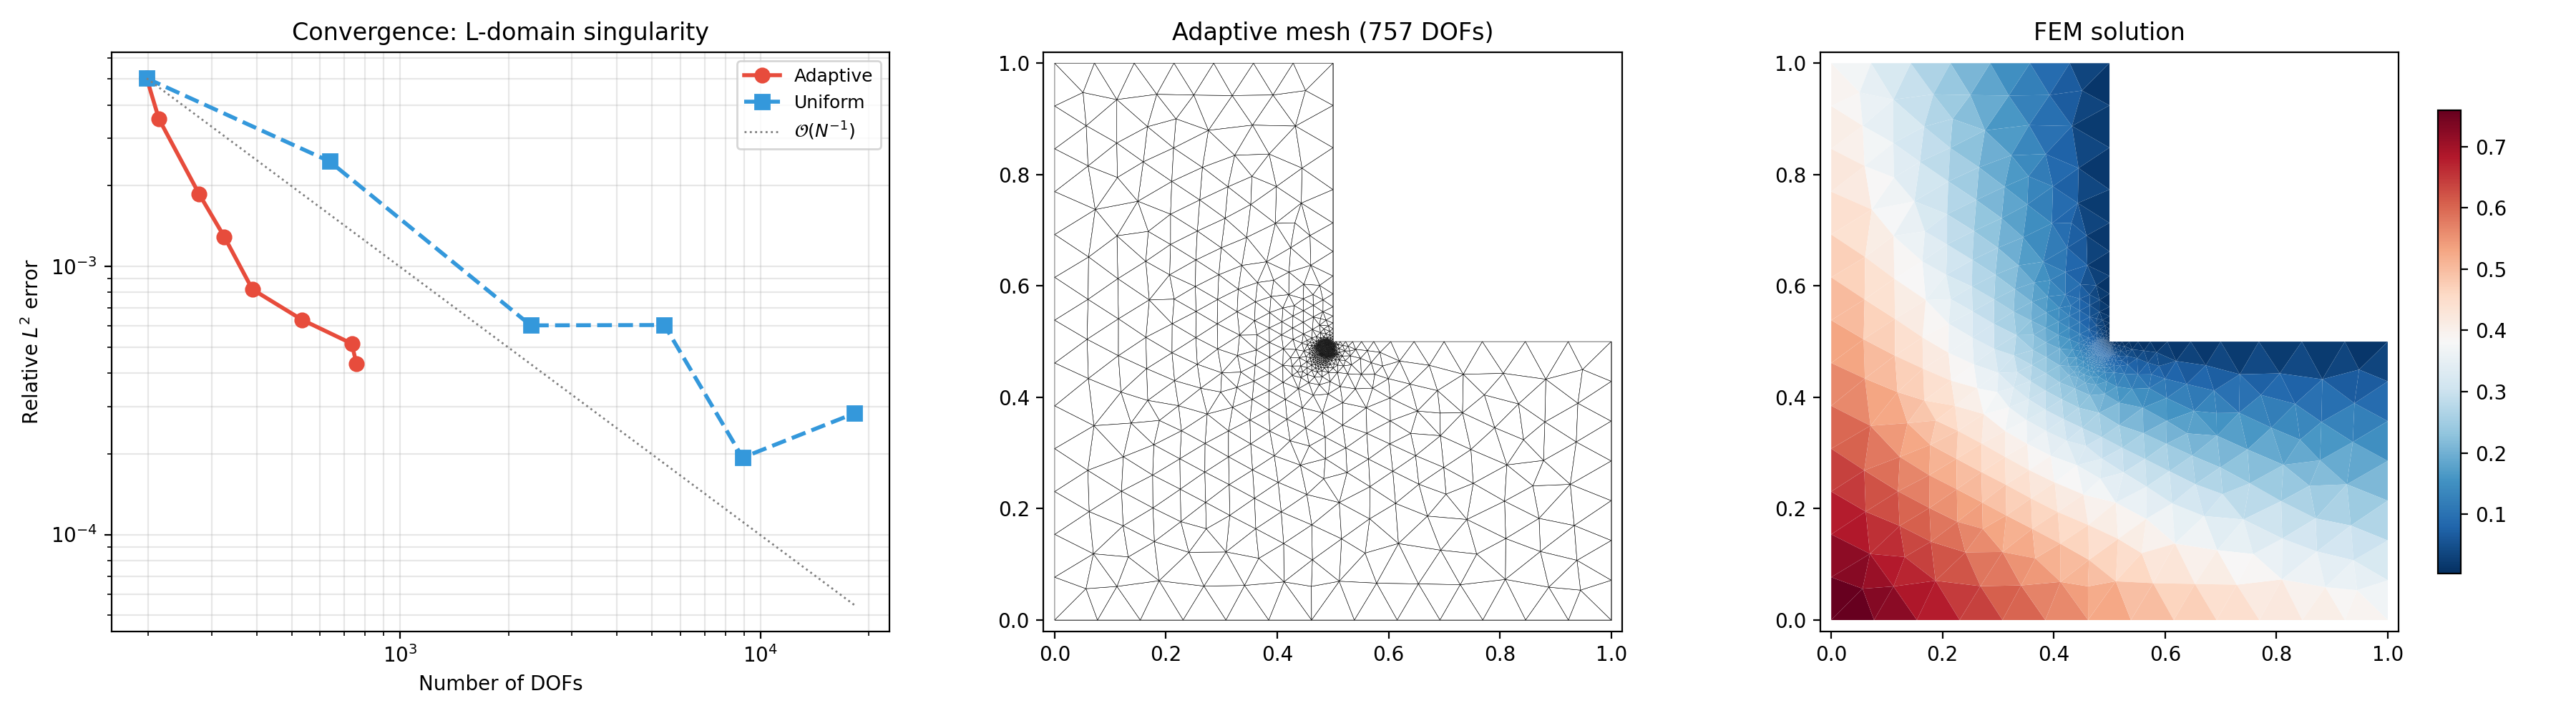
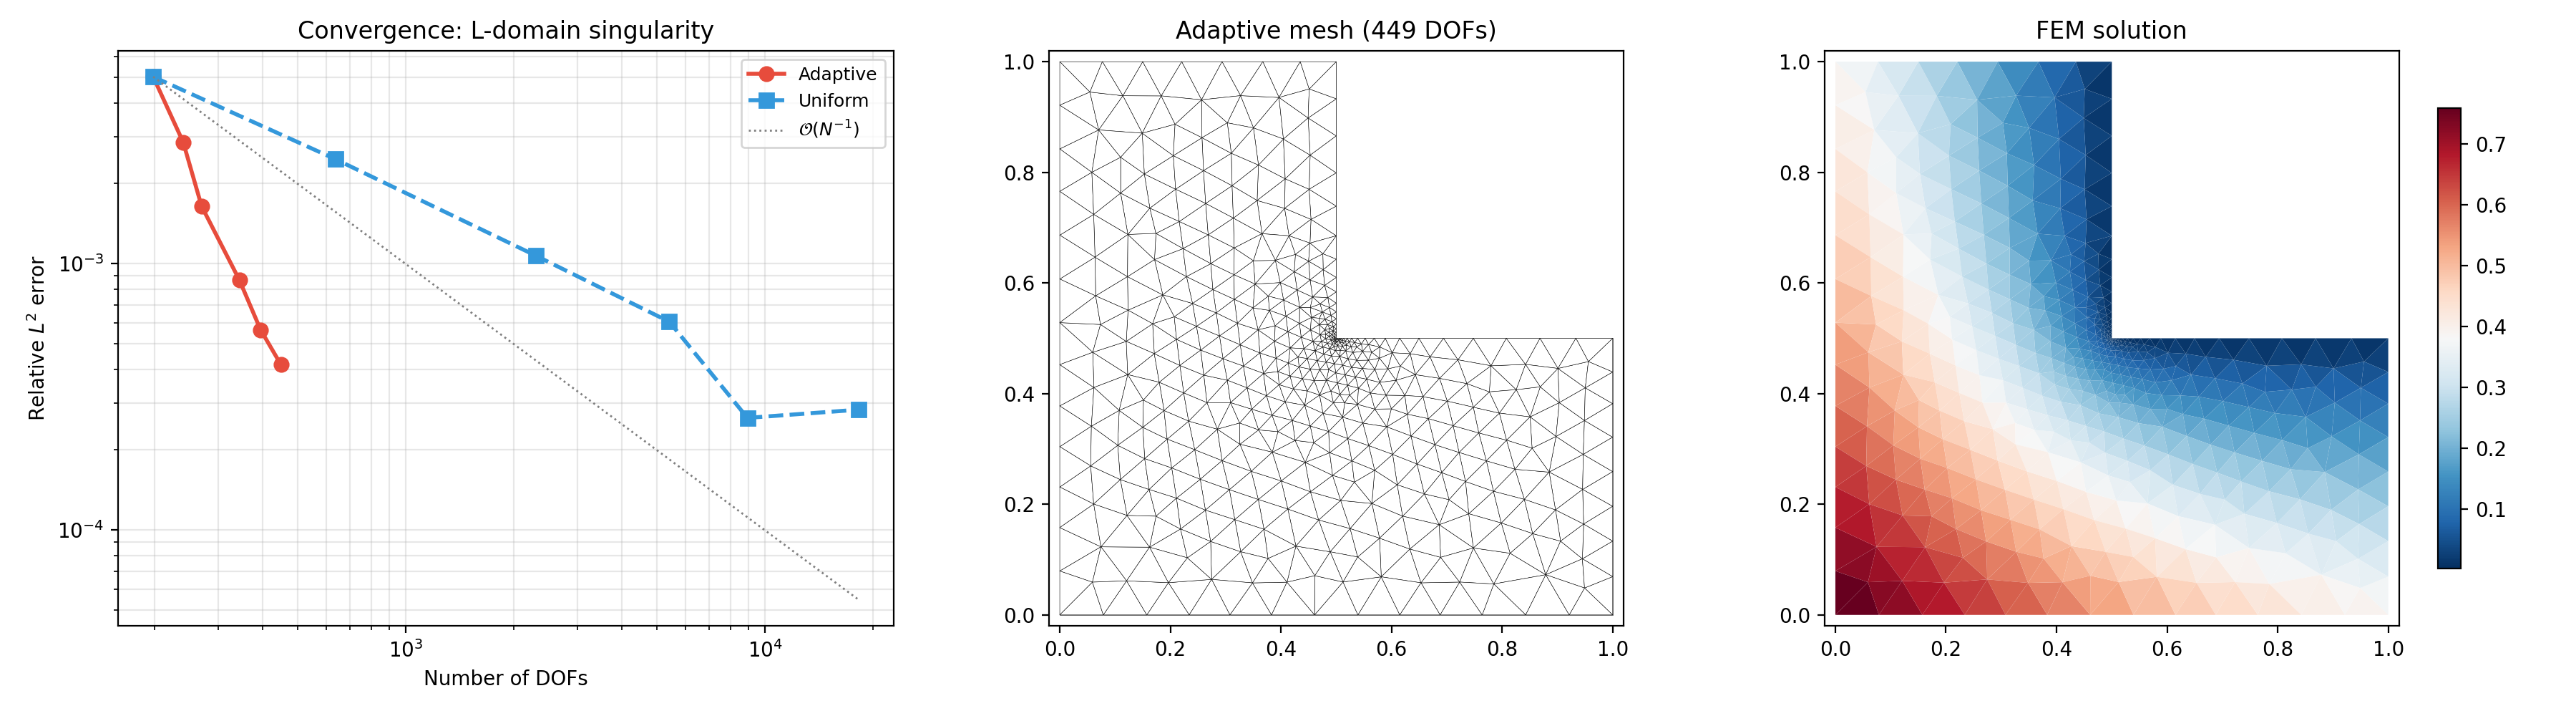
polish h-adaptivity code; update doc

diff --git a/examples/poisson/poisson_h_adaptivity.py b/examples/poisson/poisson_h_adaptivity.py
@@ -30,7 +30,7 @@ from scipy.spatial import cKDTree
 
 import gmsh
 
-from tensormesh import Mesh, LaplaceElementAssembler, MassElementAssembler, Condenser
+from tensormesh import Mesh, Transformation, LaplaceElementAssembler, MassElementAssembler, Condenser
 
 
 # ============================================================================
@@ -84,20 +84,74 @@ def global_l2_error(mesh, u_fem, u_exact):
     return (err2.sqrt() / (ref2.sqrt() + 1e-30)).item()
 
 
-def element_error_and_sizes(mesh, u_fem, u_exact):
-    """Per-element error indicator (RMS nodal error) and diameter.
+def element_error_and_sizes(mesh, u_fem):
+    """Flux-jump error indicator and element diameter for P1 triangles.
+
+    For linear triangles solving Laplace's equation, the cell residual
+    vanishes and the estimator is driven by jumps in the normal gradient
+    across interior edges:
+
+        eta_K^2 = sum_e |e|^2 [[grad(u_h) . n]]^2.
 
     Returns  centroids [E,2],  eta [E],  h [E]   as numpy arrays.
     """
-    err = (u_fem - u_exact).abs()
-    cc, ee, hh = [], [], []
-    for _, cells in mesh.cells.items():
-        coords = mesh.points[cells]
-        cc.append(coords.mean(dim=1))
-        ee.append(err[cells].pow(2).mean(dim=1).sqrt())
-        diffs = coords.unsqueeze(2) - coords.unsqueeze(1)
-        hh.append(diffs.norm(dim=-1).amax(dim=(1, 2)))
-    return (torch.cat(cc).numpy(), torch.cat(ee).numpy(), torch.cat(hh).numpy())
+    if "triangle" not in mesh.cells.keys():
+        raise ValueError("flux-jump estimator requires a mesh with P1 triangle cells")
+
+    cells = mesh.cells["triangle"]
+    if cells.shape[1] != 3:
+        raise ValueError("flux-jump estimator currently supports only 3-node P1 triangles")
+    if mesh.points.shape[1] != 2:
+        raise ValueError("flux-jump estimator currently supports only 2D meshes")
+
+    # Gather element-local coordinates and nodal solution values.
+    points = mesh.points
+    coords = points[cells]
+    values = u_fem[cells]
+
+    # Keep the original outputs expected by the remeshing callback.
+    centroids = coords.mean(dim=1)
+    diffs = coords.unsqueeze(2) - coords.unsqueeze(1)
+    h = diffs.norm(dim=-1).amax(dim=(1, 2))
+
+    # Compute one FEM gradient per element using TensorMesh shape gradients.
+    trans = Transformation(points, cells, "triangle", quadrature_order=1)
+    grad_u = torch.einsum("eb,eqbd->eqd", values, trans.shape_grad)
+    grads = grad_u.mean(dim=1)
+
+    # Use TensorMesh facet adjacency to find neighboring triangle pairs.
+    eta2 = torch.zeros(cells.shape[0], dtype=points.dtype, device=points.device)
+    adjacency = mesh.element_adjacency("triangle")
+    left = adjacency.row
+    right = adjacency.col
+    unique_pair = left < right
+    left = left[unique_pair]
+    right = right[unique_pair]
+
+    # Recover the shared edge for each adjacent pair.
+    left_cells = cells[left]
+    right_cells = cells[right]
+    shared_mask = left_cells[:, :, None] == right_cells[:, None, :]
+    if torch.any(shared_mask.sum(dim=(1, 2)) != 2):
+        raise ValueError("flux-jump estimator requires adjacent triangles to share one edge")
+
+    # Accumulate h_e ||[[grad u_h . n]]||^2 over interior edges.
+    shared = left_cells[shared_mask.any(dim=2)].reshape(-1, 2)
+    edge_vec = points[shared[:, 1]] - points[shared[:, 0]]
+    edge_length = edge_vec.norm(dim=1)
+    normal = torch.stack([-edge_vec[:, 1], edge_vec[:, 0]], dim=1) / edge_length[:, None]
+    jump = ((grads[left] - grads[right]) * normal).sum(dim=1)
+    contribution = edge_length.pow(2) * jump.pow(2)
+    eta2.scatter_add_(0, left, contribution)
+    eta2.scatter_add_(0, right, contribution)
+
+    # Return numpy arrays for the existing marking and remeshing code.
+    eta = eta2.clamp_min(0).sqrt()
+    return (
+        centroids.detach().cpu().numpy(),
+        eta.detach().cpu().numpy(),
+        h.detach().cpu().numpy(),
+    )
 
 
 # ============================================================================
@@ -203,7 +257,7 @@ if __name__ == "__main__":
             print(f"\nConverged at level {level}.")
             break
 
-        centroids, eta, h = element_error_and_sizes(mesh, u_fem, u_exact)
+        centroids, eta, h = element_error_and_sizes(mesh, u_fem)
         h_new = doerfler_sizes(h, eta, theta=0.5, h_min=0.002, h_max=h0)
         mesh = remesh_L(centroids, h_new, h_min=0.002, h_max=h0)
 

diff --git a/docs/source/example_gallery/poisson.rst b/docs/source/example_gallery/poisson.rst
@@ -148,14 +148,29 @@ This is the one example on this page that goes well beyond the
 weak form. The L-shaped domain has a re-entrant corner at
 :math:`(0.5, 0.5)`, where the exact solution
 :math:`u = r^{2/3}\sin(2\theta/3)` has a gradient singularity.
-Uniform h-refinement converges only at rate
-:math:`\mathcal{O}(N^{-1/3})` because the global error is dominated
-by the corner; an adaptive scheme that shrinks elements near the
-singularity recovers the optimal :math:`\mathcal{O}(N^{-1})` rate
-in 2D.
+Uniform h-refinement converges slowly because the global error is
+dominated by the corner singularity.
 
-The script implements the classical *solve → estimate → mark →
-remesh* loop:
+The script implements the classical *solve -> estimate -> mark ->
+remesh* loop. For P1 triangles, ``u_fem`` is affine on each element, so
+:math:`\Delta u_h = 0` inside every element for this Laplace problem.
+The residual estimator therefore comes from jumps of the normal
+gradient across interior edges:
+
+.. math::
+
+   \eta_K^2
+   =
+   \sum_{e \subset \partial K \cap \Omega}
+   h_e \left\| \left[\!\left[
+   \nabla u_h \cdot n_e
+   \right]\!\right] \right\|^2_{L^2(e)}.
+
+On a straight P1 edge the jump is constant, and the implementation
+uses the equivalent form
+:math:`\sum_e |e|^2 [[\nabla u_h \cdot n_e]]^2`. TensorMesh supplies
+the element gradients via :class:`~tensormesh.Transformation` and the
+interior-neighbor pairs via ``mesh.element_adjacency("triangle")``.
 
 .. code-block:: python
    :caption: examples/poisson/poisson_h_adaptivity.py (essence)
@@ -167,8 +182,8 @@ remesh* loop:
        rel_err = global_l2_error(mesh, u_fem, u_exact)
        if rel_err < target_error:
            break
-       centroids, eta, h = element_error_and_sizes(mesh, u_fem, u_exact)
-       h_new = doerfler_sizes(h, eta, theta=0.5)         # halve where eta > θ·max(η)
+       centroids, eta, h = element_error_and_sizes(mesh, u_fem)
+       h_new = doerfler_sizes(h, eta, theta=0.5)         # halve where eta > theta*max(eta)
        mesh  = remesh_L(centroids, h_new)                # gmsh remesh
 
 Three pieces are worth a closer look:
@@ -180,22 +195,18 @@ Three pieces are worth a closer look:
   Static condensation folds the boundary values into the RHS;
   see :doc:`../user_guide/boundary_conditions`.
 
-* **Mass-weighted error.**
+* **Mass-weighted reporting error.**
   :class:`~tensormesh.MassElementAssembler` provides the
   :math:`L^2` norm operator: ``e^T M e``. The relative error
   divides by :math:`\sqrt{u_\text{exact}^T M u_\text{exact}}` for
-  scale invariance.
+  scale invariance. This diagnostic uses the manufactured singular
+  solution only to measure convergence; it does not drive refinement.
 
 * **Dörfler marking.** Mark every element whose error indicator
   exceeds :math:`\theta\, \max(\eta)` (default :math:`\theta=0.5`)
   and halve its size; coarsen the (almost-)error-free elements.
   The new size field is fed to ``gmsh.model.mesh.setSizeCallback``,
   and the L-shape geometry is re-meshed via OpenCASCADE booleans.
-
-The output figure has three panels: convergence (adaptive vs
-uniform on a log-log plot, with the :math:`\mathcal{O}(N^{-1})`
-reference line), the final adaptive mesh with elements clustered
-at the corner, and the FEM solution itself.
 
 .. note::
 
@@ -207,12 +218,10 @@ at the corner, and the FEM solution itself.
    :alt: L-shape adaptive vs uniform convergence, final mesh, FEM solution
    :width: 100%
 
-   Output of ``poisson_h_adaptivity.py``. Left: relative
-   :math:`L^2` error vs DOF count — the adaptive curve recovers
-   the optimal :math:`\mathcal{O}(N^{-1})` rate (dotted line) while
-   uniform refinement stalls at :math:`\mathcal{O}(N^{-1/3})`
-   thanks to the corner singularity. Middle: the final adaptive
-   mesh (757 DOFs) clusters elements at the re-entrant corner.
+   Output of ``poisson_h_adaptivity.py`` regenerated with the
+   normal-gradient-jump estimator. Left: relative
+   :math:`L^2` error vs DOF count. Middle: the final adaptive
+   mesh with elements clustered at the re-entrant corner.
    Right: the FEM solution itself.
 
 